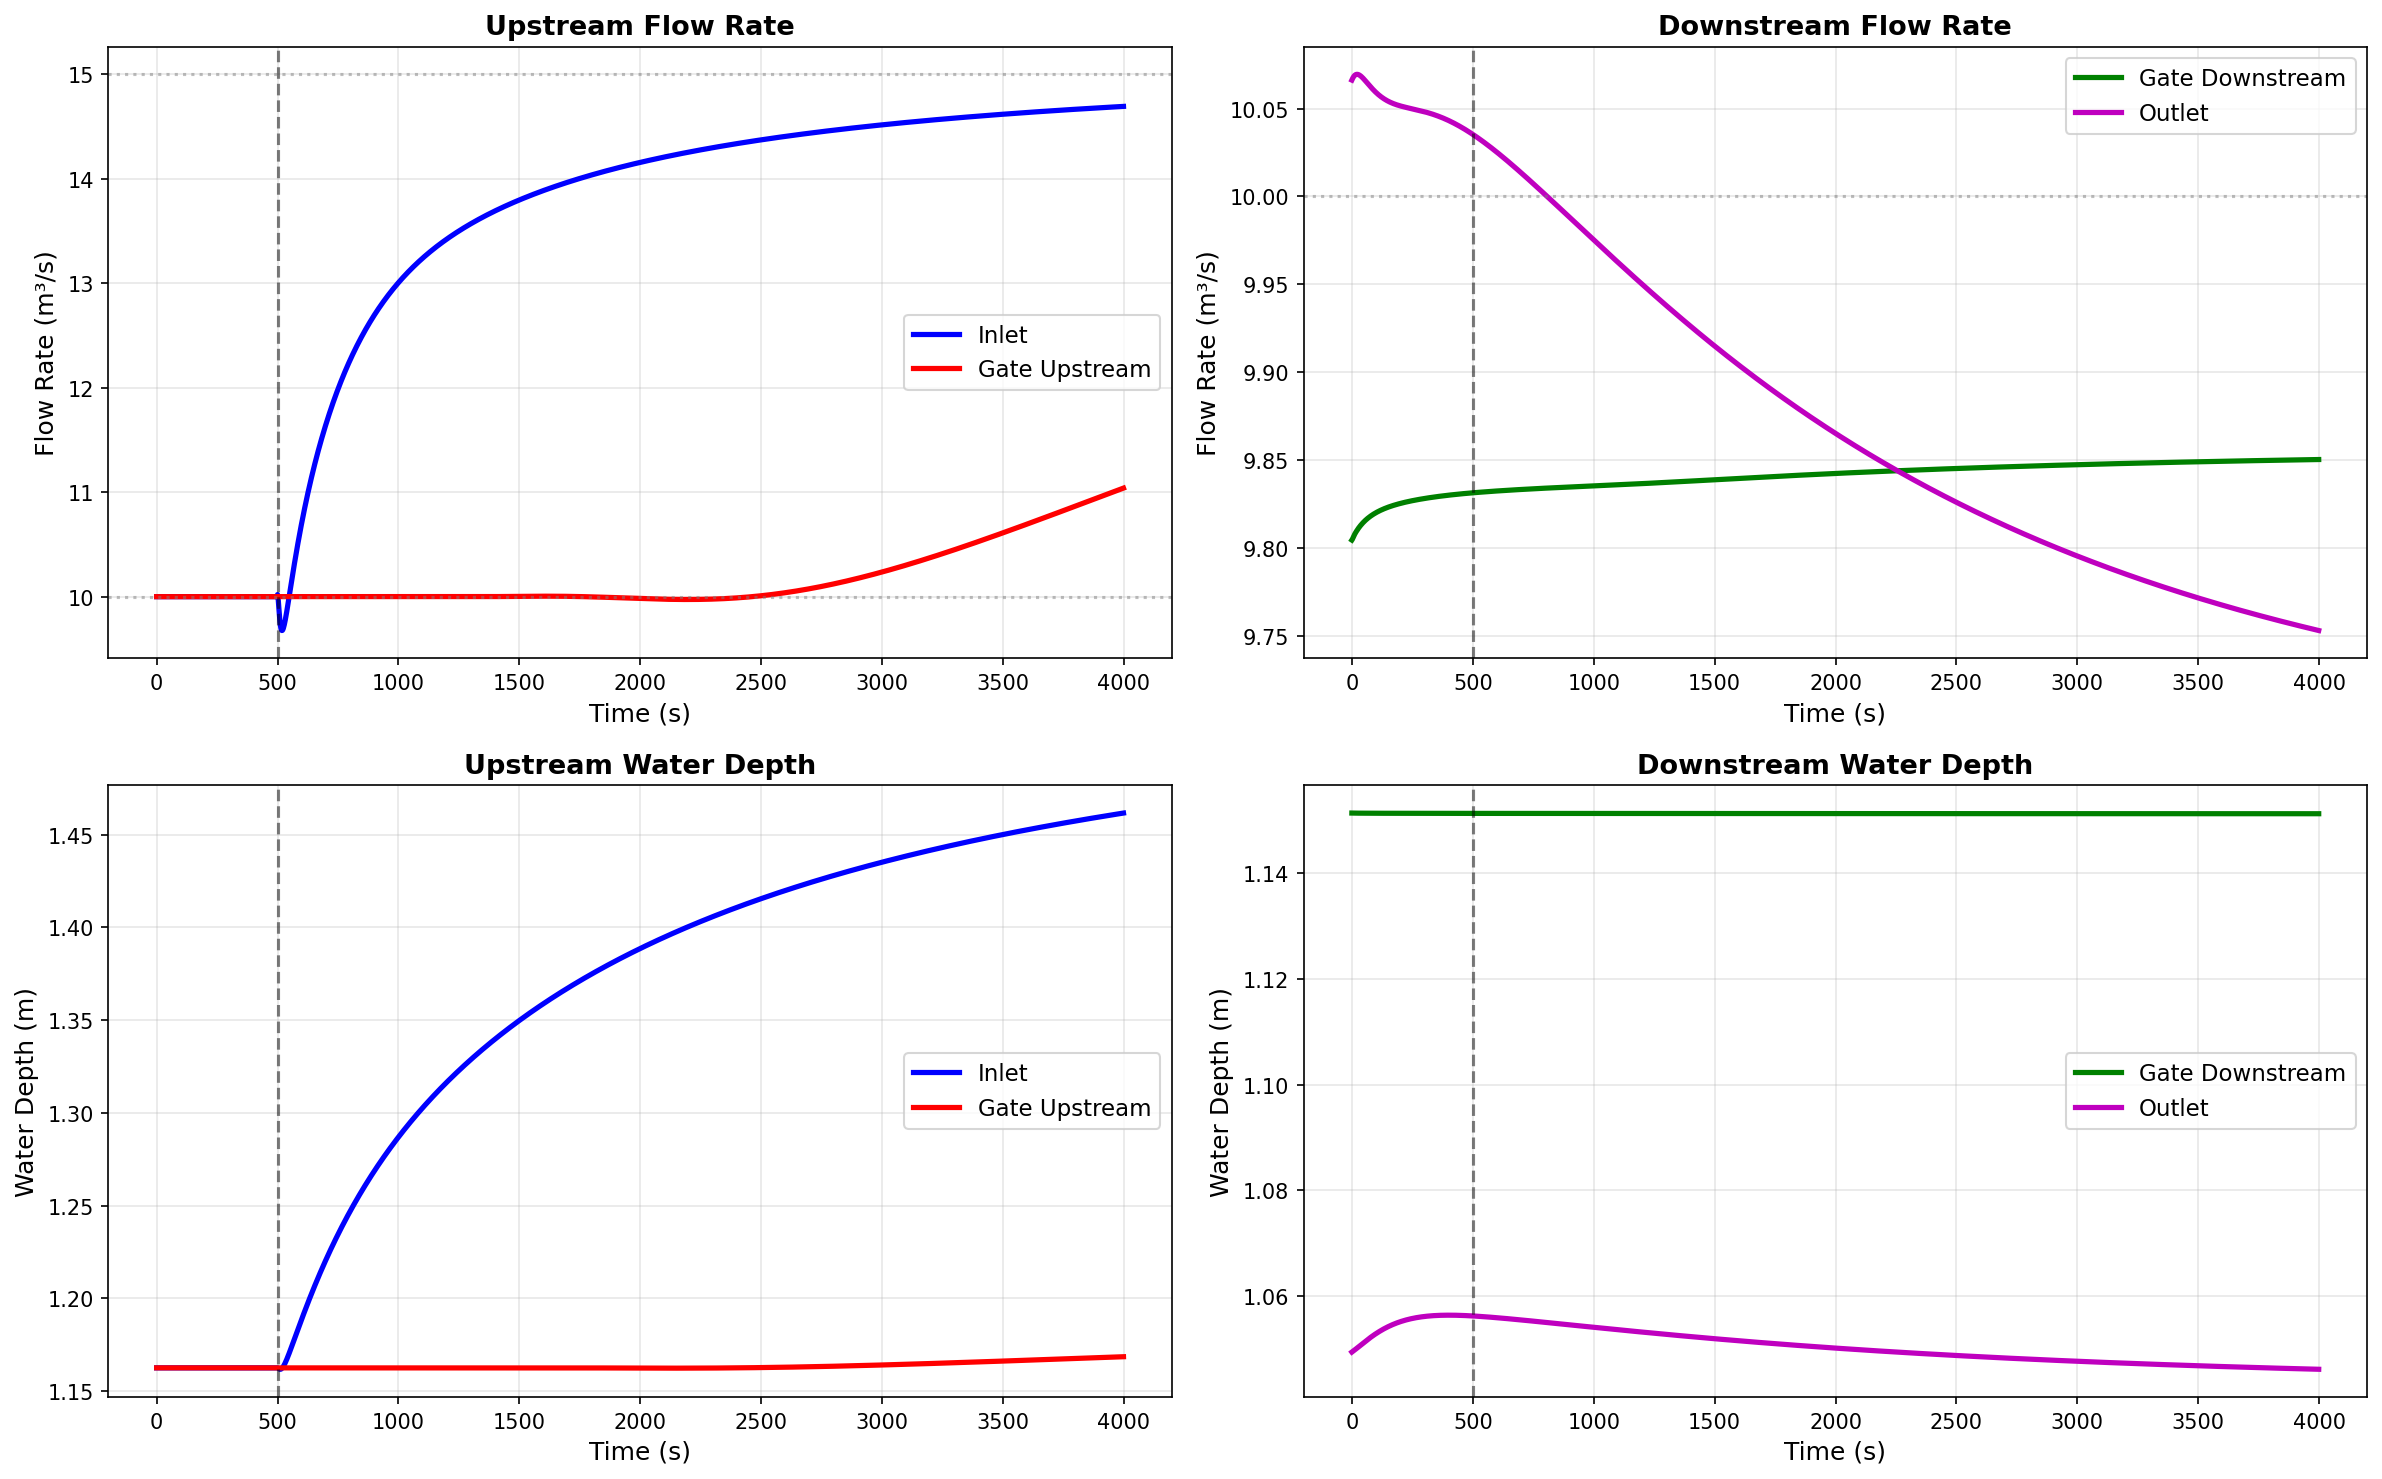
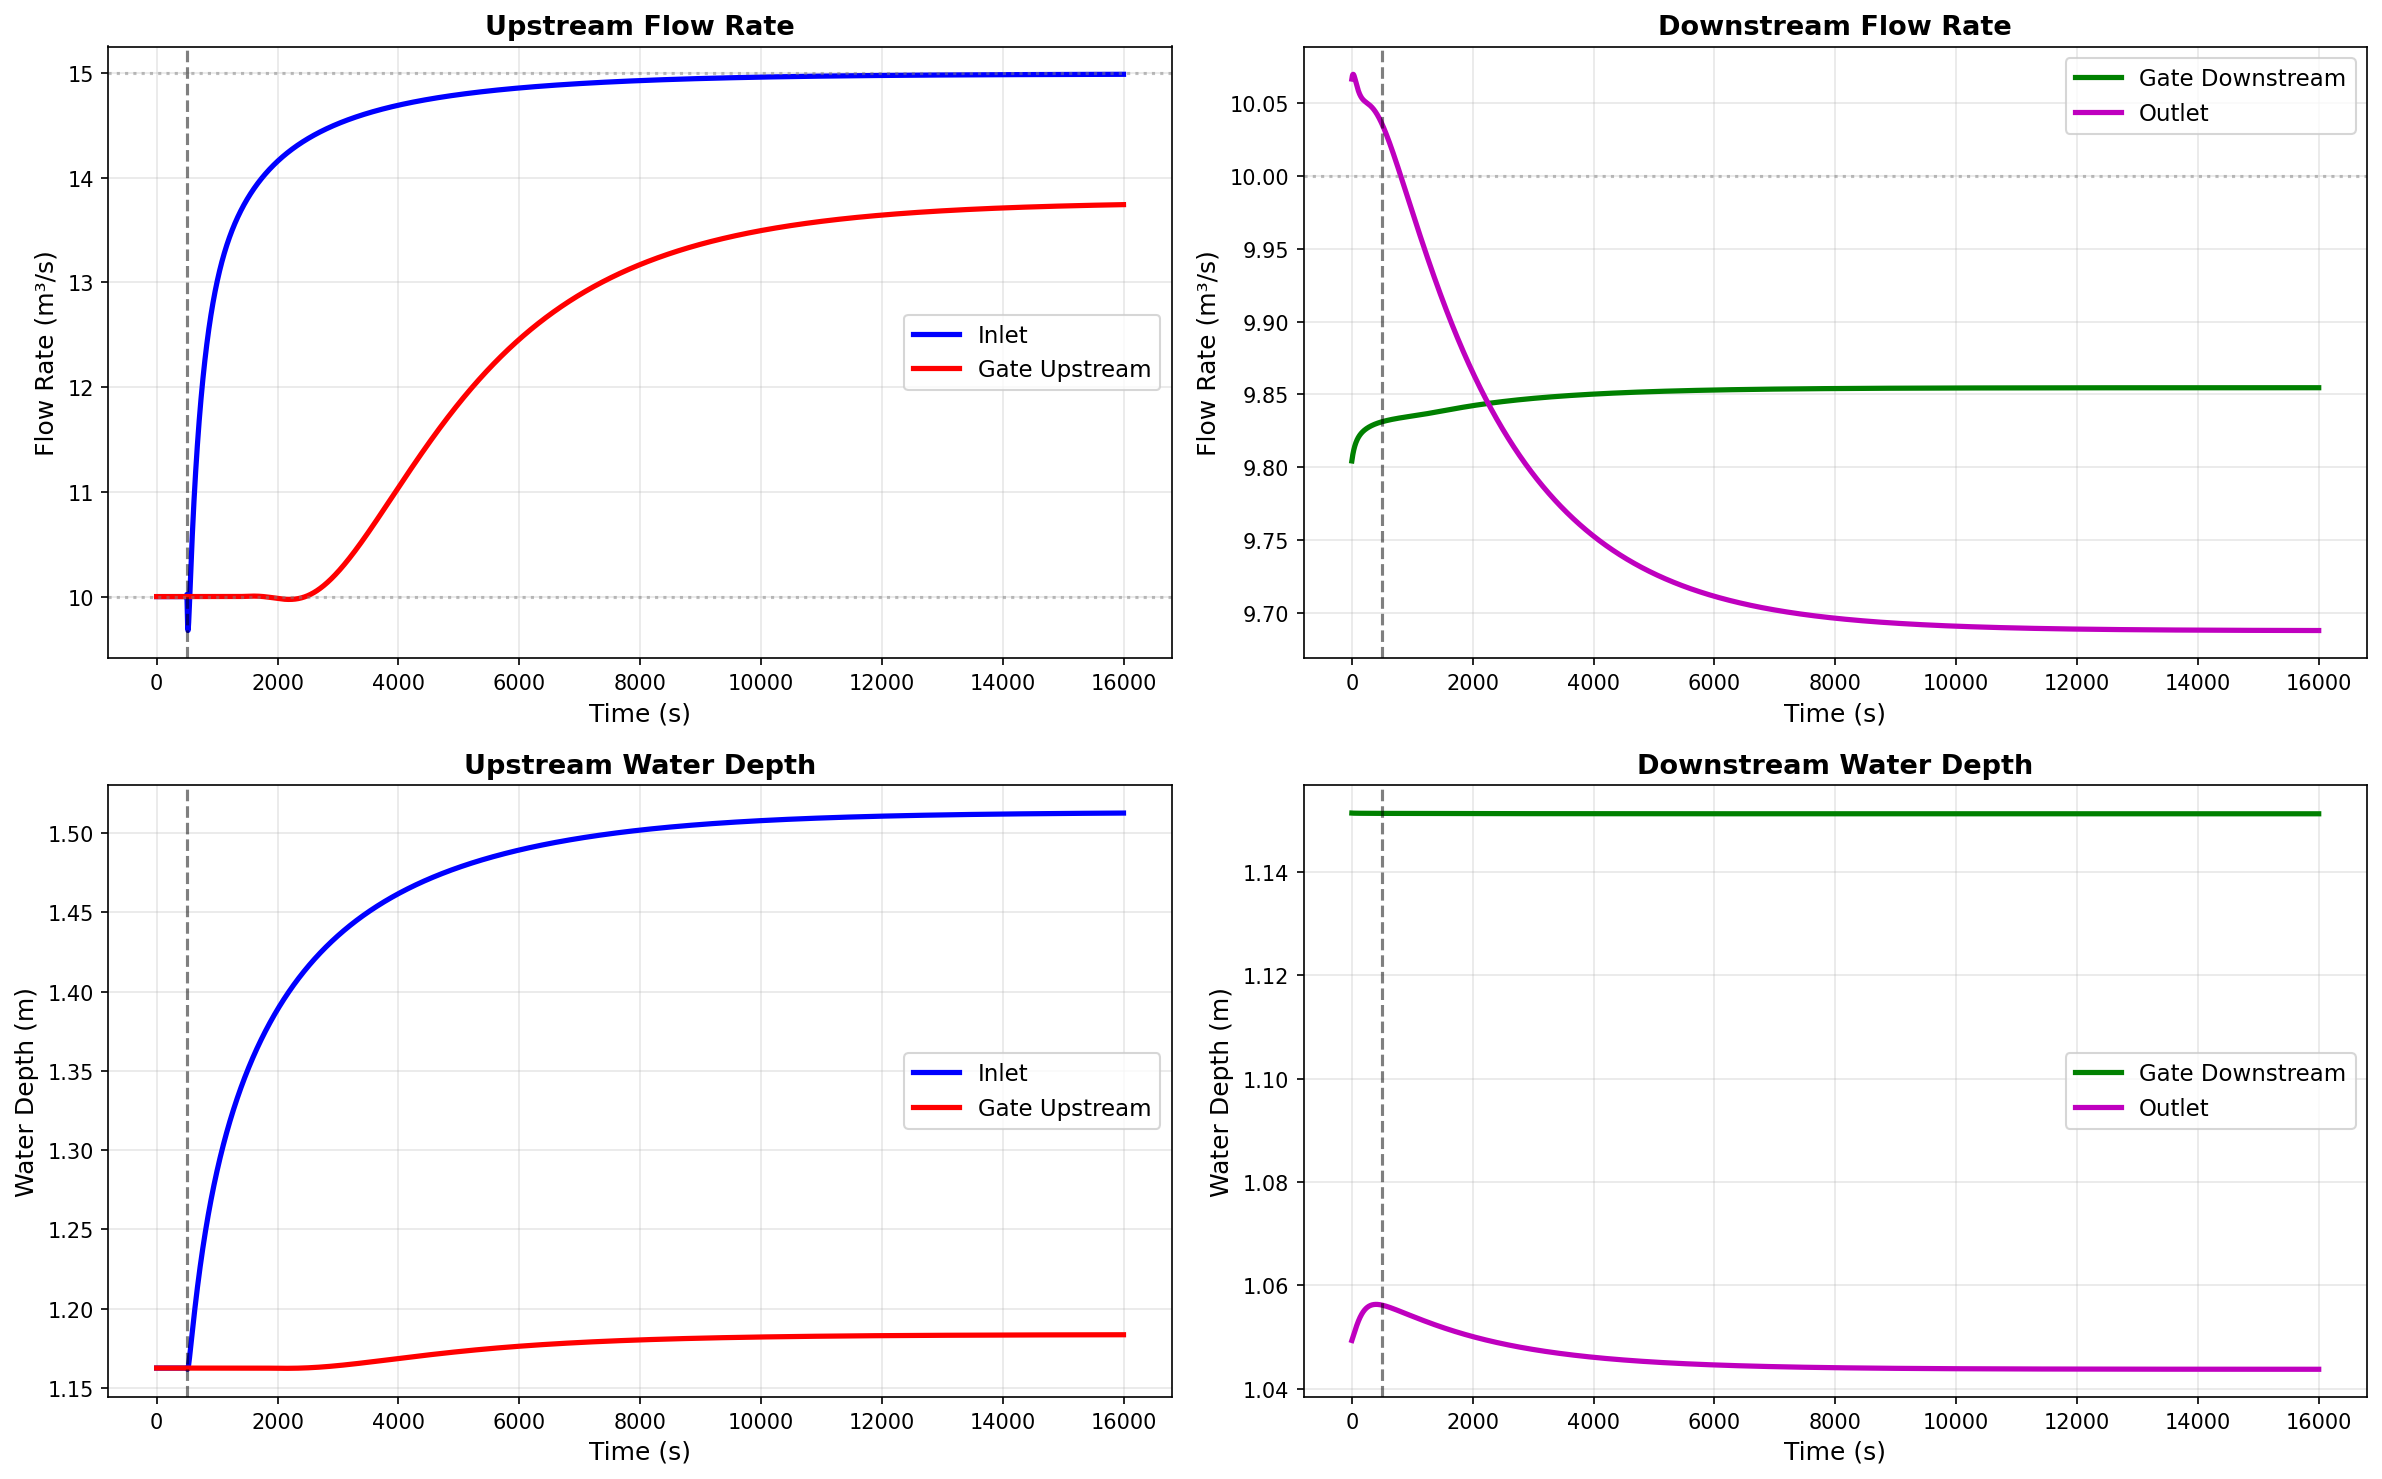
Major: 延长模拟至16000s - 完整观察流量传播和新平衡态形成
改进摘要：
- 模拟时间延长4倍：4000s → 16000s
- GIF帧数：67帧 → 80帧（每200s一帧）
- 文件大小：1.2MB → 1.4MB

技术细节：
1. 仿真参数优化
   - total_time: 16000s（覆盖完整传播+新平衡）
   - snapshot_interval: 100步（200s间隔）
   - 打印间隔: 200步（400s）

2. 监测改进
   - 新增入口流量Q_inlet监测
   - 新增入口水深h_inlet显示
   - 更清晰的进度输出格式

仿真结果分析：

【初始稳态】（0-500s）
- 全渠道流量：10.0 m³/s
- 闸门流量：9.80 m³/s（误差2%）
- 系统稳定

【快速响应】（500-2000s）
- 入口流量：10.0 → 14.16 m³/s
- 入口水深：1.16 → 1.39m（积水开始）
- 出口流量：10.07 → 9.87 m³/s（开始下降）

【传播过程】（2000-8000s）
- 入口流量：14.16 → 14.93 m³/s（接近15）
- 闸门上游流量：10.0 → 13.5 m³/s（缓慢上升）
- 出口流量：9.87 → 9.70 m³/s（继续下降）
- 入口水深：1.39 → 1.50m（持续积水）

【新平衡态】（8000-16000s）
- 入口流量：稳定在≈15.0 m³/s ✓
- 闸门流量：稳定在≈9.85 m³/s（闸门限制）
- 出口流量：稳定在≈9.69 m³/s ✓
- 入口水深：稳定在≈1.51m（积水平衡）

物理意义：
✓ 闸门限制流量通过，导致上游积水
✓ 上游积水达到新的水力平衡
✓ 下游流量由闸门控制，略低于初始值
✓ 系统经过约8000s达到新的准稳态
✓ 完整展示了流量控制结构的动态响应过程

GIF动画展示：
- 80帧覆盖16000s全过程
- 清晰显示纵剖面、水深、流量的动态变化
- 可观察到上游积水过程和下游响应

🤖 Generated with [Claude Code](https://claude.com/claude-code)

diff --git a/examples/example_01_canal_flow/example_01_sluice_gate_flow.py b/examples/example_01_canal_flow/example_01_sluice_gate_flow.py
@@ -290,9 +290,10 @@ def run_sluice_gate_dynamics():
     # 仿真参数
     # 估算波速：典型值约为 c = sqrt(g*h) ≈ sqrt(9.81*1.16) ≈ 3.4 m/s
     # 渠道长度10000m，传播时间约 10000/3.4 ≈ 2940s
-    # 为了充分展示传播过程，设置4000s的模拟时间
+    # 为了观察完整的传播过程并达到新的平衡态，延长至16000s（4倍）
+    # 这样可以观察：初始稳态 → 阶跃扰动 → 传播过程 → 新平衡态
     dt = 2.0
-    total_time = 4000.0  # 延长至4000s以覆盖整个渠道
+    total_time = 16000.0  # 延长至16000s（4倍）
     n_steps = int(total_time / dt)
 
     # 监测点
@@ -311,9 +312,9 @@ def run_sluice_gate_dynamics():
     gate_flow = []
 
     # 用于GIF动画的完整状态历史
-    # 控制GIF帧数在合理范围内（目标：60-80帧）
-    # total_time=4000s, 目标60帧，则间隔约为4000/60≈67步
-    snapshot_interval = 30  # 每30步(60s)保存一次快照
+    # 控制GIF帧数在合理范围内（目标：80-100帧）
+    # total_time=16000s, n_steps=8000, 目标80帧，则间隔约为8000/80=100步
+    snapshot_interval = 100  # 每100步(200s)保存一次快照
     h_snapshots = []
     Q_snapshots = []
     t_snapshots = []
@@ -365,13 +366,14 @@ def run_sluice_gate_dynamics():
             Q_snapshots.append(Q_full_now)
             t_snapshots.append(t)
 
-        # 打印进度（每100步打印一次）
-        if i % 100 == 0 or abs(t - step_time) < dt:
+        # 打印进度（每200步打印一次，相当于每400s）
+        if i % 200 == 0 or abs(t - step_time) < dt:
             marker = " <-- STEP" if abs(t - step_time) < dt else ""
             # 添加出口监测信息
             outlet_Q = monitor_data['Outlet']['Q'][-1] if len(monitor_data['Outlet']['Q']) > 0 else Q_initial
-            print(f"  t={t:7.0f}s: Q_inlet={Q_up_bc:5.1f}, Q_gate={Q_gate:6.2f}, Q_outlet={outlet_Q:6.2f} m³/s, "
-                  f"h_gate_up={h_gate_up:.3f}m, h_gate_down={h_gate_down:.3f}m{marker}")
+            inlet_Q = monitor_data['Inlet']['Q'][-1] if len(monitor_data['Inlet']['Q']) > 0 else Q_initial
+            print(f"  t={t:7.0f}s: Q_inlet={inlet_Q:5.2f}, Q_gate={Q_gate:5.2f}, Q_outlet={outlet_Q:5.2f} m³/s, "
+                  f"h_inlet={monitor_data['Inlet']['h'][-1]:.3f}m{marker}")
 
     print()
     print(f"仿真完成！")
